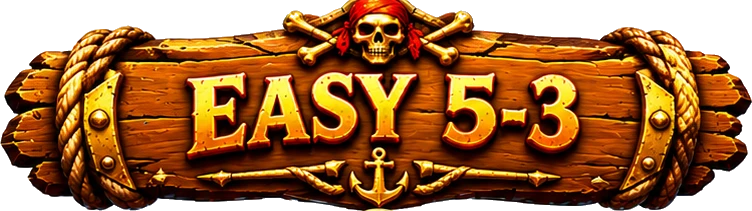
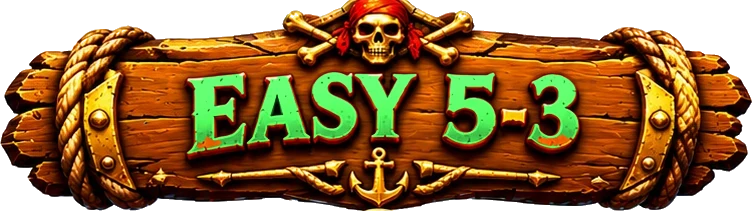
Mode signs: Easy text green, Hard text blood red; remove the duplicate SCRATCH label under the tile art
Claude-Session: https://claude.ai/code/session_01UoQz6VoqintZHwHaWa4Dbx

Changed region(s): [[0.2447, 0.3412, 0.5505, 0.7393], [0.5811, 0.3412, 0.6729, 0.7109], [0.7035, 0.3412, 0.7952, 0.7109]]

diff --git a/apps/scratch/src/components/Cell.svelte b/apps/scratch/src/components/Cell.svelte
@@ -361,18 +361,6 @@
 			onpointerup={interactive ? handleReveal : undefined}
 		>
 			<Graphics draw={drawHitArea} />
-			<Text
-				anchor={0.5}
-				y={size * 0.34}
-				text="SCRATCH"
-				style={{
-					fontFamily: 'Cinzel, Georgia, serif',
-					fontWeight: '900',
-					fontSize: size * 0.095,
-					letterSpacing: 1.5,
-					fill: 0x3d2614,
-				}}
-			/>
 		</Container>
 	{/if}
 </Container>
